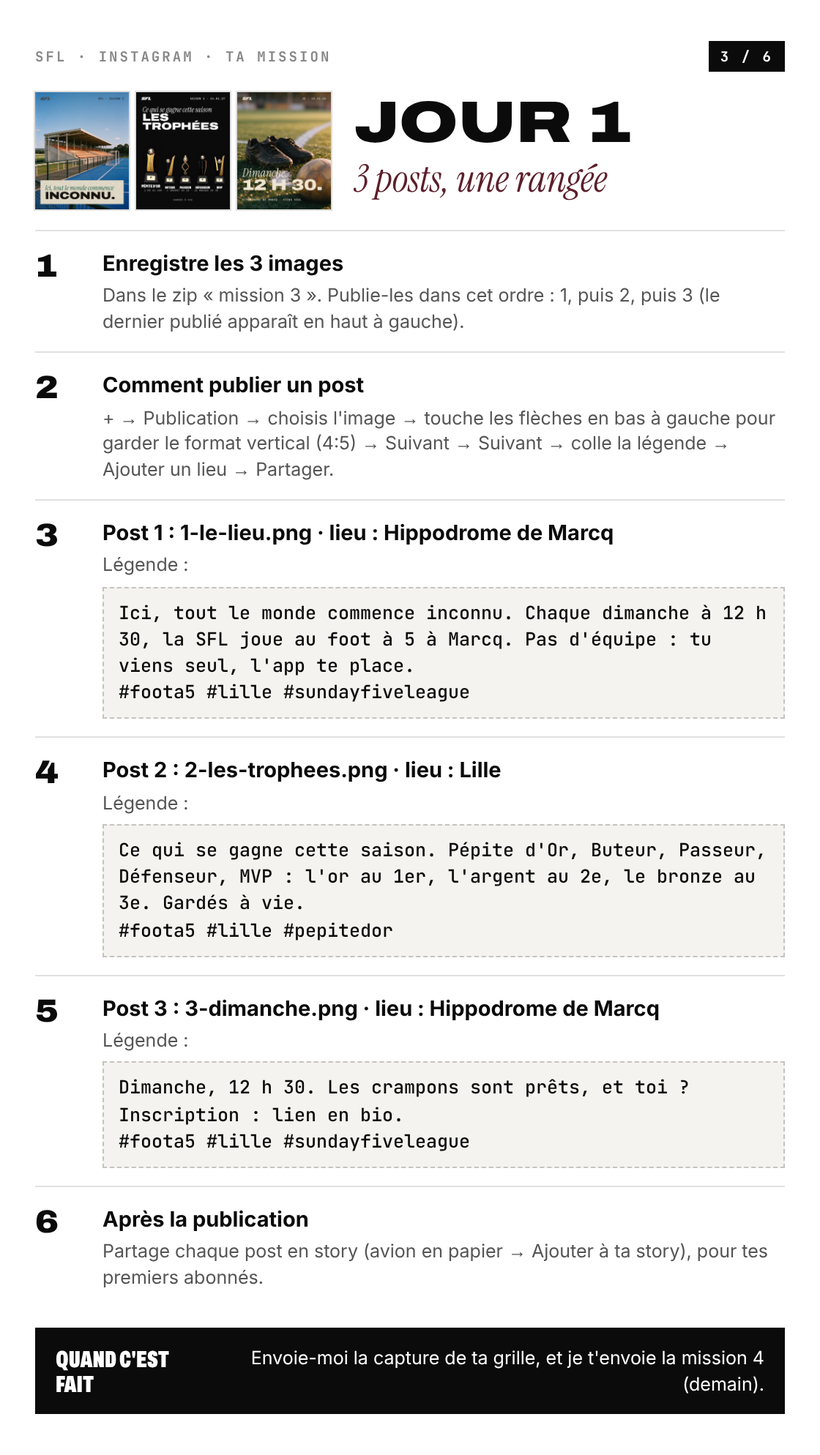
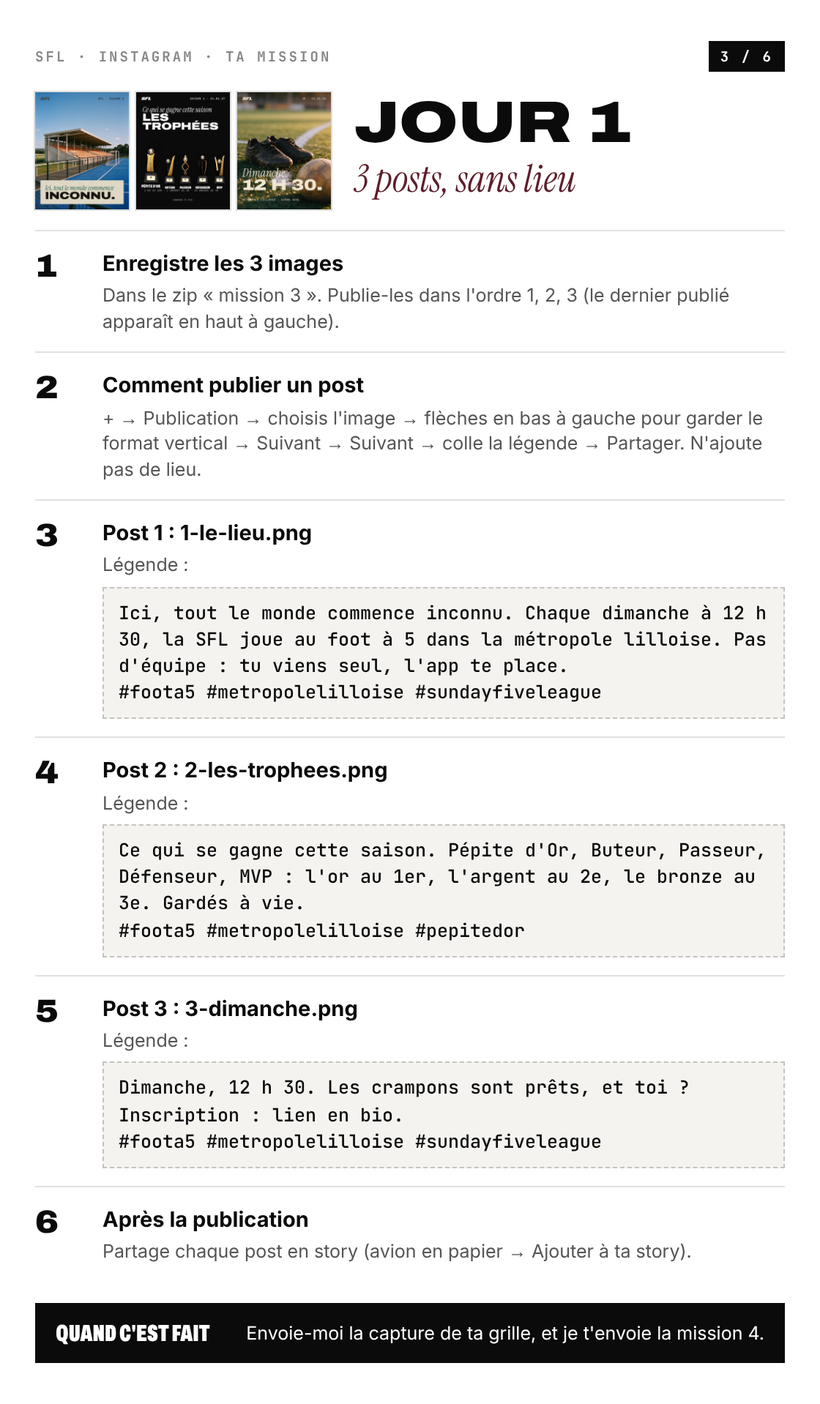
Réseaux : aucun nom de ville ni de lieu publié (métropole lilloise), visuels, bio, légendes, pubs et calendrier corrigés
Claude-Session: https://claude.ai/code/session_01T2vpMdLA1mAj6R84rgNPVD

diff --git a/reseaux/kit-v2/kit2.py b/reseaux/kit-v2/kit2.py
@@ -48,8 +48,8 @@ job('posts/03-ecarts',W,H,6,f'<div style="position:absolute;inset:0;background:{
 <div style="margin-top:10px;border-top:1px dashed #EEE6D366;padding-top:6px">{mono('Le duel le plus serré','#EEE6D3aa',4.4)}<div class="A" {A(62,13,f"color:{CR}")}>Sebovic − Ilyes : 6 pts</div></div></div>''')
 job('posts/04-le-but',W,H,6,papier(W,H)+f'''<div class="ph" style="left:9px;right:9px;top:9px;height:62%;background-image:url({PH['02-terrain']})"></div>{top(CR,'J4 · 14:23')}
 <div style="position:absolute;left:10px;right:10px;bottom:10px;color:{EN}"><div class="S" style="font-size:15px;color:{BX}">et soudain,</div><div class="A" {A(125,36)}>But.</div><div style="margin-top:3px">{mono('Jouneiid · Match 2 · Terrain 1',EN,4.8)}</div></div>''')
-job('posts/05-dimanche',W,H,6,f'''<div class="ph" style="inset:0;background-image:url({PH['03-detail']})"></div>{top(CR,'J5 · 15.11.26')}
-<div style="position:absolute;left:10px;right:10px;bottom:12px;color:{CR}"><div class="S" style="font-size:22px">Dimanche,</div><div class="A" {A(125,30)}>12 h 30.</div><div style="margin-top:4px">{mono('Hippodrome de Marcq · viens seul',CR,4.8)}</div></div>''')
+job('posts/05-dimanche',W,H,6,f'''<div class="ph" style="inset:0;background-image:url({PH['03-detail']})"></div>{top(CR,'J6 · 15.11.26')}
+<div style="position:absolute;left:10px;right:10px;bottom:12px;color:{CR}"><div class="S" style="font-size:22px">Dimanche,</div><div class="A" {A(125,30)}>12 h 30.</div><div style="margin-top:4px">{mono('Métropole lilloise · viens seul',CR,4.8)}</div></div>''')
 job('posts/06-mvp',W,H,6,f'<div style="position:absolute;inset:0;background:{NOIR}"></div>'+top(BLANC,'Les cartes · J4',BLANC)+f'''<div style="position:absolute;left:18px;top:24%">{plaque('MVP','or',144,62,26,'le patron du terrain 1',125)}</div>
 <div style="position:absolute;left:21px;top:calc(24% + 27px)">{pierre('diamant',8)}</div><div style="position:absolute;left:151px;top:calc(24% + 27px)">{pierre('diamant',8)}</div>
 <img src="{C['souley']}" style="position:absolute;right:8%;bottom:-8%;width:38%;transform:rotate(4deg);filter:drop-shadow(0 4px 6px rgba(0,0,0,.6))"><div style="position:absolute;left:10px;bottom:10px;color:{BLANC}"><div class="A" {A(62,18)}>Souley</div>{mono('7 buts · 3 passes',BLANC,4.6)}</div>''')
@@ -69,7 +69,7 @@ job('posts/11-pepite-or',W,H,6,f'<div style="position:absolute;inset:0;backgroun
 <div style="position:absolute;left:28px;top:156px">{plaque("Pépite d'Or",'or',124,30,13,'Saison 1',95)}</div><div style="position:absolute;left:0;right:0;top:192px;display:flex;justify-content:center">{pierre('diamant',10)}</div>
 <div style="position:absolute;left:0;right:0;bottom:10px;text-align:center">{mono('13 dimanches · une seule',BLANC,4.6)}</div>''')
 job('posts/12-annonce-saison',W,H,6,tissu(VB,W,H)+couture(OR,6,4)+top(CR,'Annonce',OR)+f'''<div style="position:absolute;left:0;right:0;top:22%;display:flex;justify-content:center">{brode(OR,'34px')}</div>
-<div style="position:absolute;left:0;right:0;top:50%;text-align:center;color:{CR}"><div class="S" style="font-size:16px;color:{OR}">Saison 1</div><div class="A" {A(100,18)}>13 dimanches.</div><div style="margin-top:6px">{mono('1er nov. → 24 janv. · 12 h 30',CR,4.4)}<br>{mono('Hippodrome de Marcq',CR,4.4)}</div></div>''')
+<div style="position:absolute;left:0;right:0;top:50%;text-align:center;color:{CR}"><div class="S" style="font-size:16px;color:{OR}">Saison 1</div><div class="A" {A(100,18)}>13 dimanches.</div><div style="margin-top:6px">{mono('1er nov. → 24 janv. · 12 h 30',CR,4.4)}<br>{mono('Métropole lilloise',CR,4.4)}</div></div>''')
 # LIFESTYLE & MODE : pastels
 job('posts/13-la-tenue',W,H,6,f'<div style="position:absolute;inset:0;background:{BLANC}"></div>'+top(NOIR,'Lifestyle',NOIR)+f'''<div style="position:absolute;left:30px;right:18px;top:30px;height:50%;background:#EDCFD4"></div>
 <div class="ph" style="left:22px;right:26px;top:24px;height:50%;background-image:url({PH['04-maillot']});background-position:50% 25%;filter:grayscale(1) contrast(1.08)"></div>
@@ -93,7 +93,7 @@ job('reels/05-pepite-or',W,V,6,f'<div style="position:absolute;inset:0;backgroun
 <div style="position:absolute;left:28px;top:250px">{plaque("Pépite d'Or",'or',124,30,13,'Saison 1',95)}</div>''')
 HLS=[('le-principe','<span class="A" style="font-stretch:110%;font-size:70px;color:#fff">?</span>'),('pepite-or',f'<img src="{TR("pepite-or")}" style="width:96px">'),('viens-seul','<span class="A" style="font-stretch:125%;font-size:72px;color:#fff">1.</span>'),('dimanche','<span class="S" style="font-size:64px;color:#fff">dim.</span>'),('partenaires','<span style="font:700 22px JetBrains Mono;letter-spacing:.14em;color:#D8B04A">SFL ×</span>')]
 for n,c in HLS: job(f'a-la-une/{n}',W,V,6,f'<div style="position:absolute;inset:0;background:{NOIR}"></div><div style="position:absolute;inset:0;display:grid;place-items:center">{c}</div>')
-steps=[('1','Tu t\'inscris seul','sur getbola.app'),('2','L\'app fait les équipes','révélées le vendredi à 19 h'),('3','Tu joues le dimanche','12 h 30, Hippodrome de Marcq'),('4','Tes stats montent','ta carte, ton rang, la Pépite d\'Or')]
+steps=[('1','Tu t\'inscris seul','sur getbola.app'),('2','L\'app fait les équipes','révélées le vendredi à 19 h'),('3','Tu joues le dimanche','12 h 30, dans la métropole lilloise'),('4','Tes stats montent','ta carte, ton rang, la Pépite d\'Or')]
 job('stories/le-principe',W,V,6,f'<div style="position:absolute;inset:0;background:{NOIR}"></div>'+top(BLANC,'Le principe',BLANC)+f'''<div style="position:absolute;left:14px;right:14px;top:12%;color:{BLANC}"><div class="S" style="font-size:22px">Comment ça</div><div class="A" {A(110,30)}>marche</div>
 <div style="margin-top:18px">{''.join(f'<div style="display:grid;grid-template-columns:26px 1fr;gap:8px;border-top:1px solid #ffffff33;padding:7px 0"><span class="A" {A(110,16)}>{n}</span><div><div class="A" {A(62,13)}>{t}</div>{mono(d,'#ffffffaa',4.8)}</div></div>' for n,t,d in steps)}</div></div>''')
 # YOUTUBE miniature 1280x720
@@ -103,10 +103,10 @@ job('youtube/miniature-resume',160,90,8,f'''<div class="ph" style="left:0;top:0;
 {mono('Le résumé · S1',OR,3)}<div class="A" {A(110,34,"line-height:.8")}>J4</div><div><div class="S" style="font-size:8px;color:{OR}">personne</div><div class="A" {A(75,8)}>ne lâche.</div></div></div>''')
 # BANNIÈRES
 job('bannieres/youtube-2560x1440',256,144,10,cuir(BX,256,144,6)+f'''<div style="position:absolute;left:50%;top:50%;width:154.6px;height:42.3px;transform:translate(-50%,-50%);display:flex;align-items:center;justify-content:space-between;color:{CR}">
-<div>{brode(OR,"12px")}</div><div style="text-align:right"><div class="S" style="font-size:9px;color:{OR}">le dimanche</div><div class="A" {A(125,13)}>décide.</div><div style="margin-top:2px">{mono('Foot à 5 · Lille · Marcq · chaque dimanche',CR,2.6)}</div></div></div>
+<div>{brode(OR,"12px")}</div><div style="text-align:right"><div class="S" style="font-size:9px;color:{OR}">le dimanche</div><div class="A" {A(125,13)}>décide.</div><div style="margin-top:2px">{mono('Foot à 5 · métropole lilloise · chaque dimanche',CR,2.6)}</div></div></div>
 <div style="position:absolute;left:0;right:0;top:50%;transform:translateY(-50%);height:58px">{couture(OR,0,0)}</div>''')
 job('bannieres/twitch-1200x480',240,96,5,f'''<div style="position:absolute;inset:0 32% 0 0">{tissu(VB,164,96)}</div><div class="ph" style="right:0;top:0;bottom:0;width:32%;background-image:url({PH['02-terrain']})"></div>
-<div style="position:absolute;left:14px;top:50%;transform:translateY(-50%);color:{CR}"><div class="S" style="font-size:12px;color:{OR}">en direct, le dimanche</div><div class="A" {A(62,17)}>Sunday Five League</div><div style="margin-top:4px">{mono('12 h 30 · Hippodrome de Marcq',CR,4)}</div></div>''')
+<div style="position:absolute;left:14px;top:50%;transform:translateY(-50%);color:{CR}"><div class="S" style="font-size:12px;color:{OR}">en direct, le dimanche</div><div class="A" {A(62,17)}>Sunday Five League</div><div style="margin-top:4px">{mono('12 h 30 · métropole lilloise',CR,4)}</div></div>''')
 job('bannieres/twitch-hors-ligne-1920x1080',192,108,10,pelouse(192,108,8)+f'''<div style="position:absolute;inset:0;display:grid;place-items:center;text-align:center;color:{CR}"><div><div style="display:flex;justify-content:center;margin-bottom:6px">{brode(CR,"11px")}</div>
 <div class="S" style="font-size:11px;color:{OR}">on revient</div><div class="A" {A(125,19)}>dimanche.</div><div style="margin-top:4px">{mono('12 h 30 · Twitch et YouTube · getbola.app',CR,3)}</div></div></div>''')
 json.dump(JOBS,open('jobs.json','w')); print(len(JOBS))

diff --git a/reseaux/campagnes/camp.py b/reseaux/campagnes/camp.py
@@ -4,20 +4,20 @@ L='https://getbola.app/inscription'
 def utm(src,camp,content): return f'{L}?utm_source={src}&utm_medium=paid&utm_campaign={camp}&utm_content={content}'
 META=[
 ('M1 · Il manque 1','reels/03-il-manque-1 (9:16) + posts/07-ton-nom (4:5)',
- "Il manque un joueur dimanche. Foot à 5 à Lille, à l'Hippodrome de Marcq, 12 h 30. Pas besoin d'équipe : tu viens seul, l'app te place. Tes stats, ta carte, ta place au classement.",
+ "Il manque un joueur dimanche. Foot à 5 dans la métropole lilloise, 12 h 30. Pas besoin d'équipe : tu viens seul, l'app te place. Tes stats, ta carte, ta place au classement.",
  'Il manque 1. Viens seul.','S\'inscrire','il-manque-1'),
 ('M2 · Ton nom ici','posts/07-ton-nom (4:5) + reels/03-il-manque-1 (9:16)',
- "Ton nom dans le dos, ta carte qui monte chaque dimanche. La Sunday Five League, c'est la ligue de foot à 5 du dimanche à Lille. 100 places, tu viens seul.",
+ "Ton nom dans le dos, ta carte qui monte chaque dimanche. La Sunday Five League, c'est la ligue de foot à 5 du dimanche de la métropole lilloise. 100 places, tu viens seul.",
  'Ta place t\'attend dimanche.','S\'inscrire','ton-nom-ici'),
 ('M3 · Le But du Dimanche','reels/01-le-but (9:16), avec une vraie vidéo de but dès qu\'on l\'a',
- "Chaque dimanche, un but devient le But du Dimanche. Le prochain, c'est peut-être le tien. Foot à 5 à Lille, viens seul.",
+ "Chaque dimanche, un but devient le But du Dimanche. Le prochain, c'est peut-être le tien. Foot à 5, métropole lilloise. Viens seul.",
  'Le prochain but, c\'est le tien.','En savoir plus','le-but'),
 ]
-TT=[('T1 · Spark Ad du meilleur « But du Dimanche » de novembre','Le TikTok organique qui a le mieux marché en novembre (code d\'autorisation Spark à générer depuis le compte SFL)','Foot à 5 à Lille, le dimanche. Viens seul. #foota5 #lille #sundayfiveleague','le-but-spark'),
-('T2 · Spark Ad « Il manque 1. »','Le TikTok « Il manque 1. » publié début décembre','Il manque un joueur dimanche. Viens seul. #foota5 #lille','il-manque-1-spark')]
-H=['Foot à 5 à Lille','Viens seul, on te place','La ligue du dimanche','Foot à 5 le dimanche','Pas besoin d\'équipe','100 places chaque dimanche','Hippodrome de Marcq','Tes stats, ta carte','Vise la Pépite d\'Or','Inscription en 2 minutes','Sunday Five League','Joue chaque dimanche','Five à Lille, 12 h 30','Rejoins la SFL','70 € la saison']
-DSC=['Foot à 5 le dimanche à Lille. Tu viens seul, l\'app te place dans une équipe.','Tes buts, tes passes et ta carte de joueur, mis à jour après chaque dimanche.','13 dimanches, un classement, une Pépite d\'Or. Inscris-toi sur getbola.app.','Hippodrome de Marcq, 12 h 30. 100 places. 70 € la saison.']
-KW=['"foot à 5 lille"','"five lille"','"foot 5 lille"','"foot dimanche lille"','"ligue foot lille"','"match de foot lille"','"futsal lille"','"jouer au foot lille"','"foot à 5 marcq en baroeul"','[foot a 5 lille]','[five lille]']
+TT=[('T1 · Spark Ad du meilleur « But du Dimanche » de novembre','Le TikTok organique qui a le mieux marché en novembre (code d\'autorisation Spark à générer depuis le compte SFL)','Foot à 5 le dimanche, métropole lilloise. Viens seul. #foota5 #sundayfiveleague','le-but-spark'),
+('T2 · Spark Ad « Il manque 1. »','Le TikTok « Il manque 1. » publié début décembre','Il manque un joueur dimanche. Viens seul. #foota5','il-manque-1-spark')]
+H=['Foot à 5 le dimanche','Viens seul, on te place','La ligue du dimanche','Le five du dimanche','Pas besoin d\'équipe','100 places chaque dimanche','Métropole lilloise','Tes stats, ta carte','Vise la Pépite d\'Or','Inscription en 2 minutes','Sunday Five League','Joue chaque dimanche','Le dimanche, 12 h 30','Rejoins la SFL','70 € la saison']
+DSC=['Foot à 5 le dimanche, métropole lilloise. Tu viens seul, l\'app te place.','Tes buts, tes passes et ta carte de joueur, mis à jour après chaque dimanche.','13 dimanches, un classement, une Pépite d\'Or. Inscris-toi sur getbola.app.','Chaque dimanche à 12 h 30. 100 places. 70 € la saison.']
+KW=['"foot à 5 lille"','"five lille"','"foot 5 lille"','"foot dimanche lille"','"ligue foot lille"','"match de foot lille"','"futsal lille"','"jouer au foot lille"','[foot a 5 lille]','[five lille]']
 NEG=['emploi','recrutement club','urban soccer tarif','location terrain','anniversaire','enfant','école de foot','stage','pro','billet','losc']
 for h in H: assert len(h)<=30,(h,len(h))
 for d in DSC: assert len(d)<=90,(d,len(d))
@@ -26,13 +26,13 @@ W=Font(bold=True,color='FFFFFF'); NO=PatternFill('solid',fgColor='0B0B0B')
 def head(w,h):
     w.append(h)
     for c in w[w.max_row]: c.font=W; c.fill=NO
-ws.append(['Campagne Meta « Recrutement décembre » · objectif Trafic (vues de la page de destination) · 200 € du 1er au 20/12 (≈ 10 €/jour) · 18–35 ans · Marcq-en-Barœul + 20 km · placements Reels, Stories, fil · français']); ws['A1'].font=Font(bold=True)
+ws.append(['Campagne Meta « Recrutement décembre » · objectif Trafic (vues de la page de destination) · 200 € du 1er au 20/12 (≈ 10 €/jour) · 18–35 ans · métropole lilloise · placements Reels, Stories, fil · français']); ws['A1'].font=Font(bold=True)
 head(ws,['Annonce','Visuels du kit','Texte principal','Titre','Bouton','Lien (avec suivi)','Caractères du texte'])
 for a,v,t,ti,b,c in META: ws.append([a,v,t,ti,b,utm('meta','recrutement-dec26',c),len(t)])
 w2=wb.create_sheet('TikTok'); w2.append(['Campagne TikTok « Spark décembre » · objectif Trafic · 100 € du 1er au 5/12 (20 €/jour, minimum par groupe) · 18–34 ans · région Hauts-de-France, Nord · français']); w2['A1'].font=Font(bold=True)
 head(w2,['Annonce','Vidéo','Texte','Lien (avec suivi)'])
 for a,v,t,c in TT: w2.append([a,v,t,utm('tiktok','spark-dec26',c)])
-w3=wb.create_sheet('Google'); w3.append(['Campagne Google « Recherche foot à 5 Lille » · Réseau de recherche seul · 100 € du 1er au 31/12 (≈ 3,20 €/jour) · CPC max 1 € · Marcq-en-Barœul + 20 km · français']); w3['A1'].font=Font(bold=True)
+w3=wb.create_sheet('Google'); w3.append(['Campagne Google « Recherche foot à 5 Lille » · Réseau de recherche seul · 100 € du 1er au 31/12 (≈ 3,20 €/jour) · CPC max 1 € · métropole lilloise · français']); w3['A1'].font=Font(bold=True)
 head(w3,['Type','Texte','Caractères'])
 for h in H: w3.append(['Titre (≤ 30)',h,len(h)])
 for d in DSC: w3.append(['Description (≤ 90)',d,len(d)])

diff --git a/reseaux/instagram/ig.py b/reseaux/instagram/ig.py
@@ -28,17 +28,17 @@ profil=f'''{SB}
 <div style="display:flex;align-items:center;gap:18px;padding:0 16px">
 <img src="{AV}" style="width:86px;height:86px;border-radius:50%;outline:1px solid #dbdbdb">
 <div style="flex:1;display:flex;justify-content:space-around;text-align:center">{''.join(f'<div><b style="font-size:16px">{a}</b><div style="font-size:13px">{b}</div></div>' for a,b in [('9','publications'),('1 248','followers'),('112','suivi(e)s')])}</div></div>
-<div style="padding:10px 16px 0;font-size:13.5px;line-height:1.35"><b>SFL · Foot à 5 Lille</b><div style="color:#737373">Ligue sportive</div>
-Ligue de foot à 5 du dimanche · Lille · Marcq<br>Pas d'équipe : viens seul. 13 dimanches, une Pépite d'Or.<br>Stats et cartes : BOLA ↓<div style="color:#00376B;font-weight:600">🔗 getbola.app/inscription</div></div>
+<div style="padding:10px 16px 0;font-size:13.5px;line-height:1.35"><b>SFL · Sunday Five League</b><div style="color:#737373">Ligue sportive</div>
+Ligue de foot à 5 du dimanche · métropole lilloise<br>Pas d'équipe : viens seul. 13 dimanches, une Pépite d'Or.<br>Stats et cartes : BOLA ↓<div style="color:#00376B;font-weight:600">🔗 getbola.app/inscription</div></div>
 <div style="display:flex;gap:6px;padding:12px 16px 4px"><span class="btn">Modifier</span><span class="btn">Partager le profil</span><span class="btn" style="flex:none;width:34px">+</span></div>
 <div style="display:flex;gap:14px;padding:10px 14px 8px;overflow:hidden">{hl}</div>
 <div style="display:flex;justify-content:space-around;border-top:1px solid #efefef;padding:9px 0 7px">{svgi('<rect x="4" y="4" width="16" height="16"/><path d="M4 10h16M4 15h16M10 4v16M15 4v16"/>')}{REEL}{svgi('<circle cx="12" cy="9" r="3"/><path d="M5 20c1-4 4-6 7-6s6 2 7 6"/>',stroke='#8e8e8e')}</div>
 <div style="display:grid;grid-template-columns:repeat(3,1fr);gap:2px">{grid}</div>{TAB}'''
 post=f'''{SB}
-<div style="display:flex;align-items:center;gap:10px;padding:6px 12px"><img src="{AV}" style="width:32px;height:32px;border-radius:50%"><div style="flex:1;font-size:13px"><b>sundayfiveleague</b> et <b>souley</b><div style="font-size:11.5px;color:#262626">Hippodrome de Marcq</div></div><span style="font-weight:700">···</span></div>
+<div style="display:flex;align-items:center;gap:10px;padding:6px 12px"><img src="{AV}" style="width:32px;height:32px;border-radius:50%"><div style="flex:1;font-size:13px"><b>sundayfiveleague</b> et <b>souley</b></div><span style="font-weight:700">···</span></div>
 <div style="position:relative"><img src="{im('posts/06-mvp.png')}" style="width:390px;display:block"><span style="position:absolute;right:10px;top:10px;background:#000a;color:#fff;font-size:12px;padding:3px 8px;border-radius:12px">1/4</span></div>
 <div style="display:flex;justify-content:space-between;padding:10px 12px 4px"><span style="display:flex;gap:14px">{HEART}{COM}{SEND}</span><span style="display:flex;gap:4px;align-items:center">{''.join(f'<span style="width:6px;height:6px;border-radius:50%;background:{"#0095F6" if i==0 else "#c7c7c7"}"></span>' for i in range(4))}</span>{SAVE}</div>
-<div style="padding:2px 12px;font-size:13.5px;line-height:1.4"><b>412 J'aime</b><br><b>sundayfiveleague</b> Les cartes de la J4. Souley, carte MVP du terrain 1 : 7 buts, 3 passes. Glisse pour Impact et Défensive →<br><span style="color:#00376B">#foota5 #lille #sundayfiveleague</span>
+<div style="padding:2px 12px;font-size:13.5px;line-height:1.4"><b>412 J'aime</b><br><b>sundayfiveleague</b> Les cartes de la J4. Souley, carte MVP du terrain 1 : 7 buts, 3 passes. Glisse pour Impact et Défensive →<br><span style="color:#00376B">#foota5 #sundayfiveleague</span>
 <div style="color:#737373;margin-top:4px">Afficher les 38 commentaires</div><div style="color:#737373;font-size:11px;margin-top:4px">LUNDI</div></div>{TAB}'''
 # story La Feuille
 teams=[('Match 1 · Terrain 1','Blancs','Noirs'),('Match 2 · Terrain 1','Blancs','Noirs'),('Match 1 · Terrain 2','Blancs','Noirs'),('Match 2 · Terrain 2','Blancs','Noirs')]

diff --git a/reseaux/calendrier/cal.py b/reseaux/calendrier/cal.py
@@ -49,7 +49,7 @@ while d<=end:
 # Temps forts et lancement
 EXTRA=[
 (D(2026,11,2),'—','Tous','Création des comptes','Marque','—','profil/sfl-profil-plaque','@sundayfiveleague partout, photo plaque gravée, bios, bannières'),
-(D(2026,11,3),'18:30','Instagram','Lancement : la saison','Marque','Post 4:5','posts/12-annonce-saison','Saison 1, 13 dimanches, Hippodrome de Marcq'),
+(D(2026,11,3),'18:30','Instagram','Lancement : la saison','Marque','Post 4:5','posts/12-annonce-saison','Saison 1, 13 dimanches, métropole lilloise'),
 (D(2026,11,4),'12:00','Instagram','Lancement : le lieu','Terrain','Post 4:5','posts/09-le-lieu','« Ici, tout le monde commence inconnu. »'),
 (D(2026,11,5),'12:00','Instagram','Lancement : les trophées','Compétition','Post 4:5','posts/10-trophees-saison','Ce qui se gagne cette saison'),
 (D(2026,11,5),'19:30','TikTok','Lancement : il manque 1','Marque','Vidéo 9:16','reels/03-il-manque-1','Recrutement'),

diff --git a/reseaux/instagram/lancement.md b/reseaux/instagram/lancement.md
@@ -1,14 +1,16 @@
 # Instagram : le lancement, prêt à publier
 
+**Règle (Sabri, 12/11)** : aucun nom de ville ni de lieu (ni Marcq, ni Roubaix, ni le nom du complexe). On dit « la métropole lilloise », et on ne géolocalise aucun post : ça reste flou.
+
 ## Le profil
 - **Nom d'utilisateur** : `sundayfiveleague`
-- **Nom** : `SFL · Foot à 5 Lille`
+- **Nom** : `SFL · Sunday Five League`
 - **Catégorie** : Ligue sportive
 - **Photo** : `kit-v2/profil/sfl-profil-plaque.png`
 - **Bio** (copier telle quelle, 3 lignes) :
 
 ```
-Ligue de foot à 5 du dimanche · Lille · Marcq
+Ligue de foot à 5 du dimanche · métropole lilloise
 Pas d'équipe : viens seul. 13 dimanches, une Pépite d'Or.
 Stats et cartes : BOLA ↓
 ```
@@ -26,16 +28,16 @@ Stats et cartes : BOLA ↓
 ## Les 9 posts, dans l'ordre de publication
 La grille affiche le plus récent en haut à gauche : on publie donc du n° 9 au n° 1. Jour 1 : les trois premiers d'un coup (une rangée complète), puis un par jour.
 
-| # | Jour | Fichier | Lieu | Collaboration | Légende |
-|---|---|---|---|---|---|
-| 9 | Jour 1 | `posts/09-le-lieu.png` | Hippodrome de Marcq | — | Ici, tout le monde commence inconnu. Chaque dimanche à 12 h 30, la SFL joue au foot à 5 à Marcq. Pas d'équipe : tu viens seul, l'app te place. #foota5 #lille #sundayfiveleague |
-| 8 | Jour 1 | `posts/10-trophees-saison.png` | Lille | — | Ce qui se gagne cette saison. Pépite d'Or, Buteur, Passeur, Défenseur, MVP : l'or au 1er, l'argent au 2e, le bronze au 3e. Gardés à vie. #foota5 #lille #pepitedor |
-| 7 | Jour 1 | `posts/05-dimanche.png` | Hippodrome de Marcq | — | Dimanche, 12 h 30. Les crampons sont prêts, et toi ? Inscription : lien en bio. #foota5 #lille #sundayfiveleague |
-| 6 | Jour 2 | `posts/14-dans-le-sac.png` | — | — | Dans le sac du dimanche : les crampons, le maillot, la gourde, le téléphone pour ta story. Et rien d'autre : tu viens seul. #foota5 #lille |
-| 5 | Jour 3 | `posts/12-annonce-saison.png` | Hippodrome de Marcq | — | Saison 1. 13 dimanches, du 1er novembre au 24 janvier, à l'Hippodrome de Marcq. Une seule Pépite d'Or. #sundayfiveleague #foota5 #lille |
-| 4 | Jour 4 | `posts/02-classement.png` | — | — | La course à la Pépite d'Or, après la J[n]. Qui te devance, et de combien ? Ta place est dans l'app. #pepitedor #foota5 #lille |
-| 3 | Jour 5 | `posts/04-le-but.png` | Hippodrome de Marcq | Le buteur (s'il a signé) | Et soudain, but. [Prénom], terrain [n], [minute]. Le But du Dimanche de la J[n]. #foota5 #lille #sundayfiveleague |
-| 2 | Jour 6 | `posts/13-la-tenue.png` | — | — | La tenue du dimanche. Maillot SFL, saison 1. #foota5 #lille #football |
-| 1 | Jour 7 | `posts/06-mvp.png` (+ Impact, Défensive en carrousel) | Hippodrome de Marcq | Le MVP (s'il a signé) | Les cartes de la J[n]. [Prénom], carte MVP du terrain [n] : [x] buts, [y] passes. Glisse pour Impact et Défensive → #foota5 #lille #sundayfiveleague |
+| # | Jour | Fichier | Collaboration | Légende |
+|---|---|---|---|---|
+| 9 | Jour 1 | `posts/09-le-lieu.png` | — | Ici, tout le monde commence inconnu. Chaque dimanche à 12 h 30, la SFL joue au foot à 5 dans la métropole lilloise. Pas d'équipe : tu viens seul, l'app te place. #foota5 #metropolelilloise #sundayfiveleague |
+| 8 | Jour 1 | `posts/10-trophees-saison.png` | — | Ce qui se gagne cette saison. Pépite d'Or, Buteur, Passeur, Défenseur, MVP : l'or au 1er, l'argent au 2e, le bronze au 3e. Gardés à vie. #foota5 #metropolelilloise #pepitedor |
+| 7 | Jour 1 | `posts/05-dimanche.png` | — | Dimanche, 12 h 30. Les crampons sont prêts, et toi ? Inscription : lien en bio. #foota5 #metropolelilloise #sundayfiveleague |
+| 6 | Jour 2 | `posts/14-dans-le-sac.png` | — | Dans le sac du dimanche : les crampons, le maillot, la gourde, le téléphone pour ta story. Et rien d'autre : tu viens seul. #foota5 #metropolelilloise |
+| 5 | Jour 3 | `posts/12-annonce-saison.png` | — | Saison 1. 13 dimanches, du 1er novembre au 24 janvier, dans la métropole lilloise. Une seule Pépite d'Or. #sundayfiveleague #foota5 #metropolelilloise |
+| 4 | Jour 4 | `posts/02-classement.png` | — | La course à la Pépite d'Or, après la J[n]. Qui te devance, et de combien ? Ta place est dans l'app. #pepitedor #foota5 #metropolelilloise |
+| 3 | Jour 5 | `posts/04-le-but.png` | Le buteur (s'il a signé) | Et soudain, but. [Prénom], terrain [n], [minute]. Le But du Dimanche de la J[n]. #foota5 #metropolelilloise #sundayfiveleague |
+| 2 | Jour 6 | `posts/13-la-tenue.png` | — | La tenue du dimanche. Maillot SFL, saison 1. #foota5 #metropolelilloise #football |
+| 1 | Jour 7 | `posts/06-mvp.png` (+ Impact, Défensive en carrousel) | Le MVP (s'il a signé) | Les cartes de la J[n]. [Prénom], carte MVP du terrain [n] : [x] buts, [y] passes. Glisse pour Impact et Défensive → #foota5 #metropolelilloise #sundayfiveleague |
 
 Avant chaque post : remplacer les chiffres et prénoms d'exemple par ceux de la dernière journée (l'app), et les photos d'ambiance par les vraies. Seuls les joueurs qui ont signé la charte apparaissent ou sont invités en collaboration.

diff --git a/reseaux/08-campagnes-decembre.md b/reseaux/08-campagnes-decembre.md
@@ -7,7 +7,7 @@ Tout est prêt à coller dans les outils, dans `SFL-campagnes-decembre.xlsx` (on
 | Budget | 200 € (≈ 10 €/jour) | 100 € (20 €/jour) | 100 € (≈ 3,20 €/jour, CPC max 1 €) |
 | Dates | 1er → 20/12 | 1er → 5/12 | 1er → 31/12 |
 | Objectif | Trafic : vues de la page d'inscription | Trafic | Clics sur la recherche |
-| Cible | 18–35 ans, Marcq-en-Barœul + 20 km | 18–34 ans, Nord | Marcq-en-Barœul + 20 km |
+| Cible | 18–35 ans, métropole lilloise (ciblage, invisible du public) | 18–34 ans, Nord | métropole lilloise (ciblage, invisible du public) |
 | Annonces | M1 « Il manque 1. », M2 « Ton nom ici. », M3 « Le But du Dimanche » | Spark Ads de nos meilleurs TikTok de novembre | 15 titres, 4 descriptions, 11 mots-clés, 11 négatifs |
 
 Chaque lien mène à `getbola.app/inscription` avec un suivi (`utm_source`, `utm_campaign`, `utm_content`) : on sait quelle annonce a fait venir quel inscrit, sans traceur dans l'app. Pourquoi l'objectif Trafic plutôt que Conversions : l'app n'a pas de pixel publicitaire (choix de confidentialité), donc Meta ne peut pas voir les inscriptions ; on les compte nous-mêmes.

diff --git a/reseaux/07-pub-et-budget.md b/reseaux/07-pub-et-budget.md
@@ -13,7 +13,7 @@ On ne paie jamais pour des vues seules. On n'achète pas de pub tant qu'il n'y a
 ## Les trois régies
 | Régie | Pour quoi | Visuels du kit | Minimum |
 |---|---|---|---|
-| **Meta (Instagram)** | Recruter à Lille : Reels et stories, 18–35 ans, 20 km autour de Marcq | « Il manque 1. », « Ton nom ici. », « Le But du Dimanche » | Quelques euros par jour [E] |
+| **Meta (Instagram)** | Recruter à Lille : Reels et stories, 18–35 ans, dans la métropole lilloise | « Il manque 1. », « Ton nom ici. », « Le But du Dimanche » | Quelques euros par jour [E] |
 | **TikTok** | Pousser le meilleur TikTok organique de la semaine (Spark Ads), 18–25 ans | « Le But du Dimanche », POV | 20 $ par jour et par groupe d'annonces [F, aide TikTok] |
 | **Google** | Être trouvé par ceux qui cherchent : « foot à 5 Lille », « five Lille », « foot dimanche Lille » | Annonce texte | Libre [E] |
 

diff --git a/reseaux/04-decisions.md b/reseaux/04-decisions.md
@@ -1,5 +1,7 @@
 # 04. Les décisions qui te reviennent
 
+**Règle de communication (12/11)** : aucun nom de ville ni de lieu dans ce qui est publié ; on dit « la métropole lilloise », sans géolocalisation des posts.
+
 ## Décidé le 01/11
 
 - **D0** : objectif 150 joueurs, 300 au plus « quand on aura vraiment des terrains ». L'app règle 30 places par dimanche : réglage à revoir avec toi.
